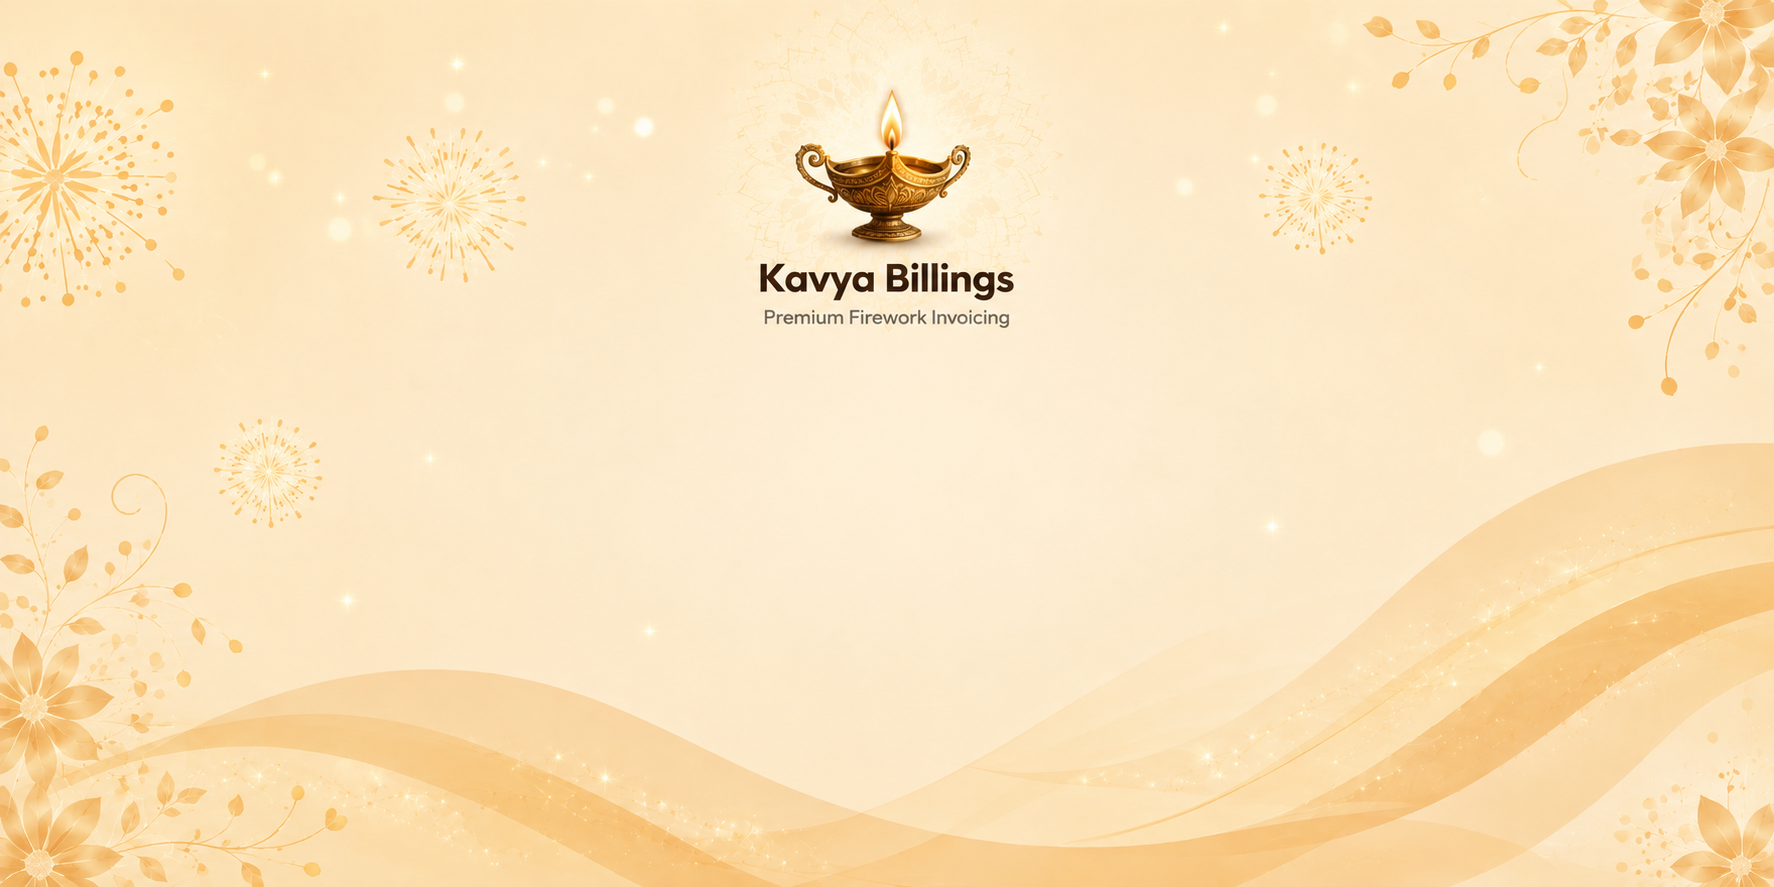
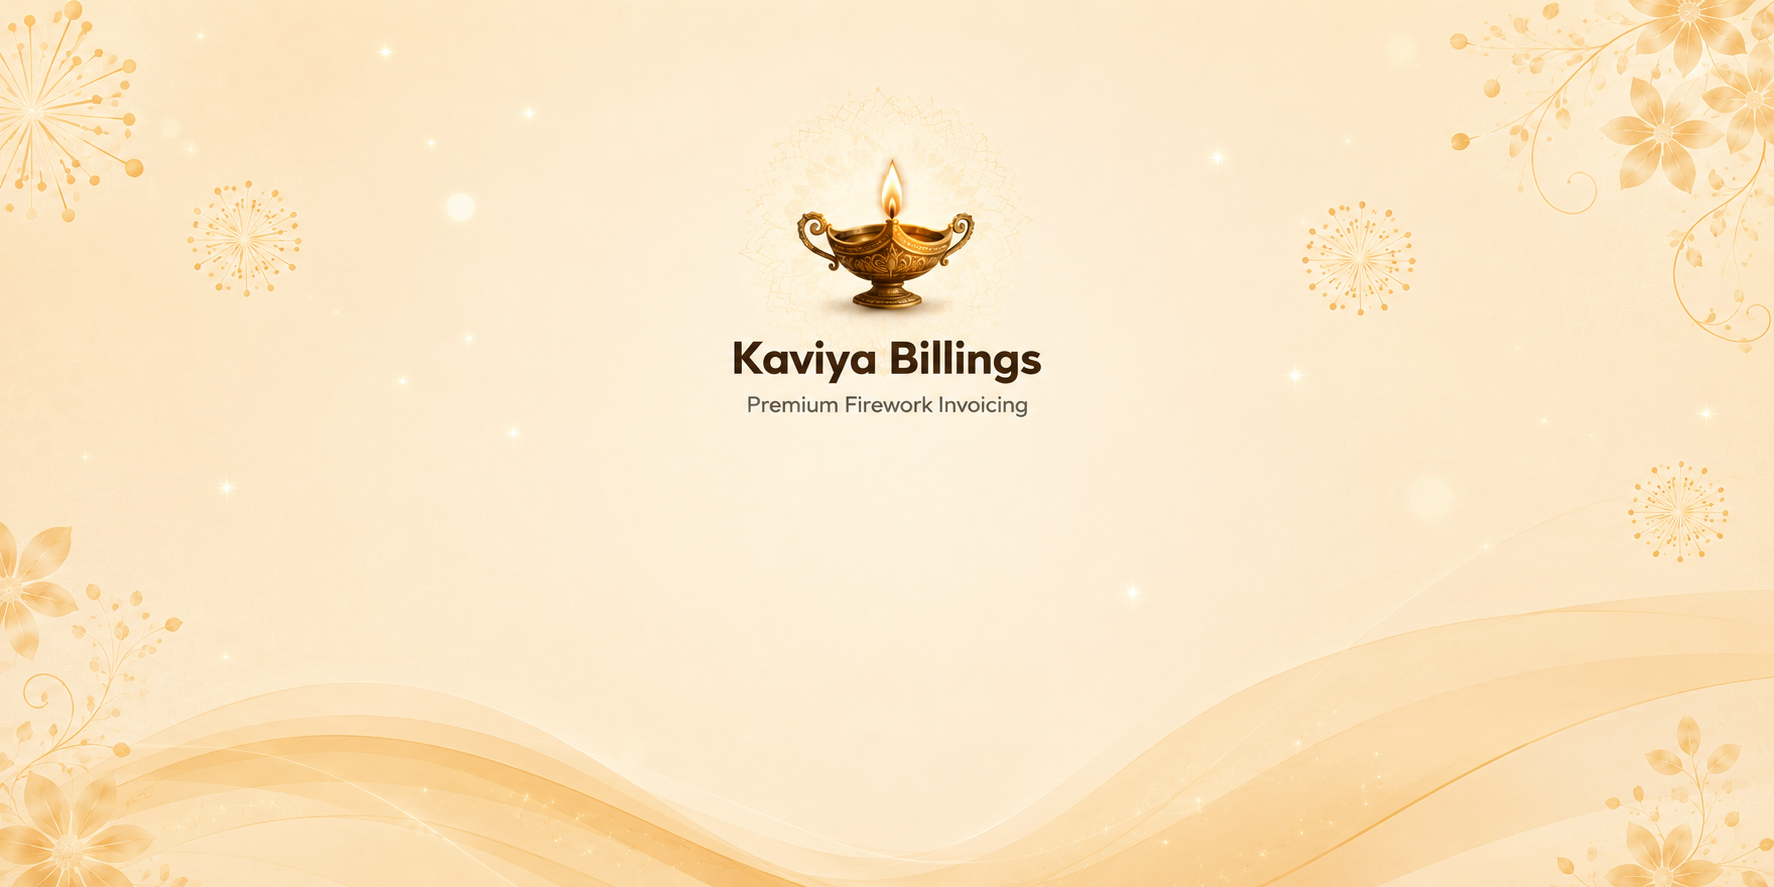
fix - dashboard and name change

diff --git a/src/routes/index.tsx b/src/routes/index.tsx
@@ -21,7 +21,6 @@ function PinPage() {
     e.preventDefault();
     if (pin === config.pin) {
       setIsUnlocking(true);
-      // Sync in background
       useBilling.getState().syncData();
       setTimeout(() => {
         setAuthed(true);
@@ -35,7 +34,8 @@ function PinPage() {
 
   return (
     <div className="h-[100dvh] w-full relative overflow-hidden bg-[#fdf6e3]">
-      {/* Background Layer */}
+
+      {/* Background — always fills 100% of the viewport */}
       <motion.div
         initial={{ opacity: 0 }}
         animate={{ opacity: 1 }}
@@ -51,34 +51,63 @@ function PinPage() {
         <div className="absolute inset-0 bg-white/10" />
       </motion.div>
 
-      {/* Main Content Wrapper */}
-      <div className="absolute inset-0 z-10 flex flex-col items-center justify-end pb-12 perspective-1000 p-4">
-        <AnimatePresence>
-          {!isUnlocking && (
-            <motion.div
-              initial={{ y: 0, opacity: 1 }}
-              exit={{
-                y: 500,
-                rotateX: -20,
-                opacity: 0,
-                transition: { duration: 0.8, ease: "backIn" },
-              }}
-              className="w-full max-w-md flex flex-col items-center"
+      {/*
+        KEY FIX: Card is absolutely positioned using viewport-% coordinates,
+        the same coordinate space the background image lives in.
+        → Browser zoom scales both the bg and the card identically.
+        → No flex container, no padding-based positioning that drifts on zoom.
+
+        bottom: 6%    — lower third, background branding visible above
+        left: 50% + translateX(-50%)  — always horizontally centered
+        width: 28vw   — proportional to viewport, matches bg image scaling
+        clamp() on font/padding — gracefully handles very small or large viewports
+      */}
+      <AnimatePresence>
+        {!isUnlocking && (
+          <motion.div
+            initial={{ x: "-50%", opacity: 1 }}
+            animate={{ x: "-50%" }}
+            exit={{
+              x: "-50%",
+              y: 500,
+              rotateX: -20,
+              opacity: 0,
+              transition: { duration: 0.8, ease: "backIn" },
+            }}
+            style={{
+              position: "absolute",
+              bottom: "6%",
+              left: "50%",
+              width: "28vw",
+              minWidth: "300px",
+              maxWidth: "460px",
+              zIndex: 10,
+            }}
+          >
+            <motion.form
+              onSubmit={submit}
+              animate={{ y: [0, -8, 0] }}
+              transition={{ duration: 4, repeat: Infinity, ease: "easeInOut" }}
+              whileHover={{ scale: 1.02, y: -12 }}
+              className="w-full bg-white/70 backdrop-blur-xl border border-white/50 shadow-2xl relative overflow-hidden"
+              style={{ borderRadius: "2rem", padding: "2rem" }}
             >
-              {/* Login Card */}
-              <motion.form
-                onSubmit={submit}
-                animate={{ y: [0, -8, 0] }}
-                transition={{ duration: 4, repeat: Infinity, ease: "easeInOut" }}
-                whileHover={{ scale: 1.02, y: -12 }}
-                className="w-full bg-white/70 backdrop-blur-xl border border-white/50 rounded-[2.5rem] p-8 shadow-2xl space-y-6 relative overflow-hidden"
-              >
-                <div className="absolute top-0 left-0 w-full h-1 bg-festive" />
-                
-                <div className="space-y-3">
-                  <label className="text-[10px] font-black flex items-center gap-2 text-[#8b6d4d] uppercase tracking-widest justify-center">
-                    <Lock className="w-3 h-3" /> Secure Access Required
-                  </label>
+              {/* Festive top accent bar */}
+              <div className="absolute top-0 left-0 w-full bg-festive" style={{ height: "4px" }} />
+
+              <div style={{ display: "flex", flexDirection: "column", gap: "1.25rem" }}>
+
+                {/* Label */}
+                <label
+                  className="flex items-center justify-center gap-2 text-[#8b6d4d] uppercase tracking-widest font-black"
+                  style={{ fontSize: "clamp(9px, 0.7vw, 12px)" }}
+                >
+                  <Lock style={{ width: "clamp(10px, 0.8vw, 14px)", height: "clamp(10px, 0.8vw, 14px)" }} />
+                  Secure Access Required
+                </label>
+
+                {/* PIN input */}
+                <div>
                   <input
                     type="password"
                     inputMode="numeric"
@@ -89,34 +118,51 @@ function PinPage() {
                       setPin(e.target.value.replace(/\D/g, ""));
                       setErr("");
                     }}
-                    className="w-full text-center text-3xl tracking-[0.5em] font-mono py-5 rounded-2xl border-2 border-[#d4bc8d]/30 bg-white/50 focus:outline-none focus:border-[#c0421b] focus:ring-4 focus:ring-[#c0421b]/10 transition-all shadow-inner"
+                    className="w-full text-center font-mono tracking-[0.5em] border-2 border-[#d4bc8d]/30 bg-white/50 focus:outline-none focus:border-[#c0421b] focus:ring-4 focus:ring-[#c0421b]/10 transition-all shadow-inner"
+                    style={{
+                      fontSize: "clamp(20px, 2vw, 32px)",
+                      padding: "clamp(12px, 1.2vw, 20px) 0",
+                      borderRadius: "1rem",
+                    }}
                     placeholder="••••••"
                   />
                   {err && (
-                    <p className="text-[#c0421b] text-[10px] font-bold text-center uppercase animate-bounce">
+                    <p
+                      className="text-[#c0421b] font-bold text-center uppercase animate-bounce"
+                      style={{ fontSize: "clamp(9px, 0.6vw, 12px)", marginTop: "6px" }}
+                    >
                       {err}
                     </p>
                   )}
                 </div>
 
+                {/* Unlock button */}
                 <button
                   type="submit"
                   disabled={pin.length !== 6 || isUnlocking}
-                  className="w-full bg-festive text-white font-bold py-4 rounded-2xl shadow-lg disabled:opacity-50 hover:bg-[#a03616] transition-all text-base uppercase tracking-widest"
+                  className="w-full bg-festive text-white font-bold shadow-lg disabled:opacity-50 hover:bg-[#a03616] transition-all uppercase tracking-widest"
+                  style={{
+                    padding: "clamp(10px, 1vw, 16px) 0",
+                    borderRadius: "1rem",
+                    fontSize: "clamp(11px, 0.8vw, 14px)",
+                  }}
                 >
                   Unlock System
                 </button>
 
-                <div className="text-center pt-2">
-                  <p className="text-[9px] text-[#8b6d4d]/60 font-medium tracking-tighter">
-                    Authorized Personnel Only • PIN: 123456
-                  </p>
-                </div>
-              </motion.form>
-            </motion.div>
-          )}
-        </AnimatePresence>
-      </div>
+                {/* Footer note */}
+                <p
+                  className="text-center text-[#8b6d4d]/60 font-medium tracking-tighter"
+                  style={{ fontSize: "clamp(8px, 0.55vw, 11px)" }}
+                >
+                  Authorized Personnel Only • PIN: 123456
+                </p>
+
+              </div>
+            </motion.form>
+          </motion.div>
+        )}
+      </AnimatePresence>
     </div>
   );
 }

diff --git a/src/routes/__root.tsx b/src/routes/__root.tsx
@@ -72,11 +72,11 @@ export const Route = createRootRouteWithContext<{ queryClient: QueryClient }>()(
     meta: [
       { charSet: "utf-8" },
       { name: "viewport", content: "width=device-width, initial-scale=1" },
-      { title: "Kavya Billings | Premium Firework Invoicing" },
-      { name: "description", content: "Modern billing system for Kavya Billings" },
-      { name: "author", content: "Kavya Billings" },
-      { property: "og:title", content: "Kavya Billings" },
-      { property: "og:description", content: "Modern billing system for Kavya Billings" },
+      { title: "Kaviya Billings | Premium Firework Invoicing" },
+      { name: "description", content: "Modern billing system for Kaviya Billings" },
+      { name: "author", content: "Kaviya Billings" },
+      { property: "og:title", content: "Kaviya Billings" },
+      { property: "og:description", content: "Modern billing system for Kaviya Billings" },
       { property: "og:type", content: "website" },
       { name: "twitter:card", content: "summary" },
       { name: "twitter:site", content: "@KavyaBillings" },

diff --git a/src/components/TopNav.tsx b/src/components/TopNav.tsx
@@ -14,7 +14,7 @@ export function TopNav() {
           <div className="w-9 h-9 rounded-lg bg-festive grid place-items-center shadow-festive">
             <Sparkles className="w-5 h-5 text-primary-foreground" />
           </div>
-          <span>Kavya Billings</span>
+          <span>Kaviya Billings</span>
         </Link>
         <nav className="flex items-center gap-2">
           <Link

diff --git a/src/routes/dashboard.tsx b/src/routes/dashboard.tsx
@@ -72,7 +72,7 @@ function Dashboard() {
         <main className="flex-1 flex flex-col items-center justify-center max-w-5xl mx-auto px-6 w-full py-4">
           <motion.div className="text-center mb-8" variants={itemVariants}>
             <h1 className="text-5xl font-extrabold tracking-tight text-[#4a3728] mb-2">
-              Kavya <span className="text-[#c0421b]">Dashboard</span>
+              Kaviya <span className="text-[#c0421b]">Dashboard</span>
             </h1>
             <p className="text-base text-[#8b6d4d] font-bold uppercase tracking-[0.2em]">
               Select Operation Module